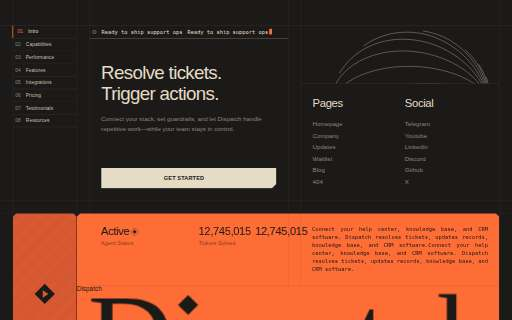
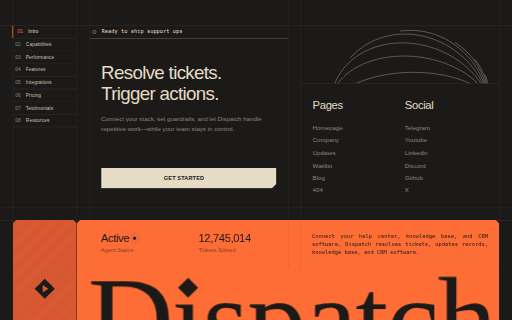
fix(styles): Tailwind utilities for isoline-bloom and ticket-stub-footer
Compiled Tailwind for 60 candidates; before/after screenshots showed a visible
fix for only these two, so the rest were left unchanged.

diff --git a/features/ticket-stub-footer/style.css b/features/ticket-stub-footer/style.css
@@ -7,3 +7,7 @@ html, body, #root {
   width: 100%;
   min-height: 100%;
 }
+
+/* tailwind:start (generated by npm run build-tailwind) */
+*,:after,:before{--tw-border-spacing-x:0;--tw-border-spacing-y:0;--tw-translate-x:0;--tw-translate-y:0;--tw-rotate:0;--tw-skew-x:0;--tw-skew-y:0;--tw-scale-x:1;--tw-scale-y:1;--tw-pan-x: ;--tw-pan-y: ;--tw-pinch-zoom: ;--tw-scroll-snap-strictness:proximity;--tw-gradient-from-position: ;--tw-gradient-via-position: ;--tw-gradient-to-position: ;--tw-ordinal: ;--tw-slashed-zero: ;--tw-numeric-figure: ;--tw-numeric-spacing: ;--tw-numeric-fraction: ;--tw-ring-inset: ;--tw-ring-offset-width:0px;--tw-ring-offset-color:#fff;--tw-ring-color:rgba(59,130,246,.5);--tw-ring-offset-shadow:0 0 #0000;--tw-ring-shadow:0 0 #0000;--tw-shadow:0 0 #0000;--tw-shadow-colored:0 0 #0000;--tw-blur: ;--tw-brightness: ;--tw-contrast: ;--tw-grayscale: ;--tw-hue-rotate: ;--tw-invert: ;--tw-saturate: ;--tw-sepia: ;--tw-drop-shadow: ;--tw-backdrop-blur: ;--tw-backdrop-brightness: ;--tw-backdrop-contrast: ;--tw-backdrop-grayscale: ;--tw-backdrop-hue-rotate: ;--tw-backdrop-invert: ;--tw-backdrop-opacity: ;--tw-backdrop-saturate: ;--tw-backdrop-sepia: ;--tw-contain-size: ;--tw-contain-layout: ;--tw-contain-paint: ;--tw-contain-style: }::backdrop{--tw-border-spacing-x:0;--tw-border-spacing-y:0;--tw-translate-x:0;--tw-translate-y:0;--tw-rotate:0;--tw-skew-x:0;--tw-skew-y:0;--tw-scale-x:1;--tw-scale-y:1;--tw-pan-x: ;--tw-pan-y: ;--tw-pinch-zoom: ;--tw-scroll-snap-strictness:proximity;--tw-gradient-from-position: ;--tw-gradient-via-position: ;--tw-gradient-to-position: ;--tw-ordinal: ;--tw-slashed-zero: ;--tw-numeric-figure: ;--tw-numeric-spacing: ;--tw-numeric-fraction: ;--tw-ring-inset: ;--tw-ring-offset-width:0px;--tw-ring-offset-color:#fff;--tw-ring-color:rgba(59,130,246,.5);--tw-ring-offset-shadow:0 0 #0000;--tw-ring-shadow:0 0 #0000;--tw-shadow:0 0 #0000;--tw-shadow-colored:0 0 #0000;--tw-blur: ;--tw-brightness: ;--tw-contrast: ;--tw-grayscale: ;--tw-hue-rotate: ;--tw-invert: ;--tw-saturate: ;--tw-sepia: ;--tw-drop-shadow: ;--tw-backdrop-blur: ;--tw-backdrop-brightness: ;--tw-backdrop-contrast: ;--tw-backdrop-grayscale: ;--tw-backdrop-hue-rotate: ;--tw-backdrop-invert: ;--tw-backdrop-opacity: ;--tw-backdrop-saturate: ;--tw-backdrop-sepia: ;--tw-contain-size: ;--tw-contain-layout: ;--tw-contain-paint: ;--tw-contain-style: }/*! tailwindcss v3.4.19 | MIT License | https://tailwindcss.com*/*,:after,:before{box-sizing:border-box;border:0 solid #e5e7eb}:after,:before{--tw-content:""}:host,html{line-height:1.5;-webkit-text-size-adjust:100%;-moz-tab-size:4;-o-tab-size:4;tab-size:4;font-family:ui-sans-serif,system-ui,sans-serif,Apple Color Emoji,Segoe UI Emoji,Segoe UI Symbol,Noto Color Emoji;font-feature-settings:normal;font-variation-settings:normal;-webkit-tap-highlight-color:transparent}body{margin:0;line-height:inherit}hr{height:0;color:inherit;border-top-width:1px}abbr:where([title]){-webkit-text-decoration:underline dotted;text-decoration:underline dotted}h1,h2,h3,h4,h5,h6{font-size:inherit;font-weight:inherit}a{color:inherit;text-decoration:inherit}b,strong{font-weight:bolder}code,kbd,pre,samp{font-family:ui-monospace,SFMono-Regular,Menlo,Monaco,Consolas,Liberation Mono,Courier New,monospace;font-feature-settings:normal;font-variation-settings:normal;font-size:1em}small{font-size:80%}sub,sup{font-size:75%;line-height:0;position:relative;vertical-align:baseline}sub{bottom:-.25em}sup{top:-.5em}table{text-indent:0;border-color:inherit;border-collapse:collapse}button,input,optgroup,select,textarea{font-family:inherit;font-feature-settings:inherit;font-variation-settings:inherit;font-size:100%;font-weight:inherit;line-height:inherit;letter-spacing:inherit;color:inherit;margin:0;padding:0}button,select{text-transform:none}button,input:where([type=button]),input:where([type=reset]),input:where([type=submit]){-webkit-appearance:button;background-color:transparent;background-image:none}:-moz-focusring{outline:auto}:-moz-ui-invalid{box-shadow:none}progress{vertical-align:baseline}::-webkit-inner-spin-button,::-webkit-outer-spin-button{height:auto}[type=search]{-webkit-appearance:textfield;outline-offset:-2px}::-webkit-search-decoration{-webkit-appearance:none}::-webkit-file-upload-button{-webkit-appearance:button;font:inherit}summary{display:list-item}blockquote,dd,dl,figure,h1,h2,h3,h4,h5,h6,hr,p,pre{margin:0}fieldset{margin:0}fieldset,legend{padding:0}menu,ol,ul{list-style:none;margin:0;padding:0}dialog{padding:0}textarea{resize:vertical}input::-moz-placeholder,textarea::-moz-placeholder{opacity:1;color:#9ca3af}input::placeholder,textarea::placeholder{opacity:1;color:#9ca3af}[role=button],button{cursor:pointer}:disabled{cursor:default}audio,canvas,embed,iframe,img,object,svg,video{display:block;vertical-align:middle}img,video{max-width:100%;height:auto}[hidden]:where(:not([hidden=until-found])){display:none}.sr-only{position:absolute;width:1px;height:1px;padding:0;margin:-1px;overflow:hidden;clip:rect(0,0,0,0);white-space:nowrap;border-width:0}.\!visible{visibility:visible!important}.visible{visibility:visible}.block{display:block}.flex{display:flex}.contents{display:contents}.hidden{display:none}.w-full{width:100%}.transform{transform:translate(var(--tw-translate-x),var(--tw-translate-y)) rotate(var(--tw-rotate)) skewX(var(--tw-skew-x)) skewY(var(--tw-skew-y)) scaleX(var(--tw-scale-x)) scaleY(var(--tw-scale-y))}.bg-\[\#1b1a19\]{--tw-bg-opacity:1;background-color:rgb(27 26 25/var(--tw-bg-opacity,1))}.bg-\[\#eee8da\]{--tw-bg-opacity:1;background-color:rgb(238 232 218/var(--tw-bg-opacity,1))}.lowercase{text-transform:lowercase}.filter{filter:var(--tw-blur) var(--tw-brightness) var(--tw-contrast) var(--tw-grayscale) var(--tw-hue-rotate) var(--tw-invert) var(--tw-saturate) var(--tw-sepia) var(--tw-drop-shadow)}
+/* tailwind:end */

diff --git a/features/isoline-bloom/style.css b/features/isoline-bloom/style.css
@@ -7,3 +7,7 @@ html, body, #root {
   width: 100%;
   min-height: 100%;
 }
+
+/* tailwind:start (generated by npm run build-tailwind) */
+*,:after,:before{--tw-border-spacing-x:0;--tw-border-spacing-y:0;--tw-translate-x:0;--tw-translate-y:0;--tw-rotate:0;--tw-skew-x:0;--tw-skew-y:0;--tw-scale-x:1;--tw-scale-y:1;--tw-pan-x: ;--tw-pan-y: ;--tw-pinch-zoom: ;--tw-scroll-snap-strictness:proximity;--tw-gradient-from-position: ;--tw-gradient-via-position: ;--tw-gradient-to-position: ;--tw-ordinal: ;--tw-slashed-zero: ;--tw-numeric-figure: ;--tw-numeric-spacing: ;--tw-numeric-fraction: ;--tw-ring-inset: ;--tw-ring-offset-width:0px;--tw-ring-offset-color:#fff;--tw-ring-color:rgba(59,130,246,.5);--tw-ring-offset-shadow:0 0 #0000;--tw-ring-shadow:0 0 #0000;--tw-shadow:0 0 #0000;--tw-shadow-colored:0 0 #0000;--tw-blur: ;--tw-brightness: ;--tw-contrast: ;--tw-grayscale: ;--tw-hue-rotate: ;--tw-invert: ;--tw-saturate: ;--tw-sepia: ;--tw-drop-shadow: ;--tw-backdrop-blur: ;--tw-backdrop-brightness: ;--tw-backdrop-contrast: ;--tw-backdrop-grayscale: ;--tw-backdrop-hue-rotate: ;--tw-backdrop-invert: ;--tw-backdrop-opacity: ;--tw-backdrop-saturate: ;--tw-backdrop-sepia: ;--tw-contain-size: ;--tw-contain-layout: ;--tw-contain-paint: ;--tw-contain-style: }::backdrop{--tw-border-spacing-x:0;--tw-border-spacing-y:0;--tw-translate-x:0;--tw-translate-y:0;--tw-rotate:0;--tw-skew-x:0;--tw-skew-y:0;--tw-scale-x:1;--tw-scale-y:1;--tw-pan-x: ;--tw-pan-y: ;--tw-pinch-zoom: ;--tw-scroll-snap-strictness:proximity;--tw-gradient-from-position: ;--tw-gradient-via-position: ;--tw-gradient-to-position: ;--tw-ordinal: ;--tw-slashed-zero: ;--tw-numeric-figure: ;--tw-numeric-spacing: ;--tw-numeric-fraction: ;--tw-ring-inset: ;--tw-ring-offset-width:0px;--tw-ring-offset-color:#fff;--tw-ring-color:rgba(59,130,246,.5);--tw-ring-offset-shadow:0 0 #0000;--tw-ring-shadow:0 0 #0000;--tw-shadow:0 0 #0000;--tw-shadow-colored:0 0 #0000;--tw-blur: ;--tw-brightness: ;--tw-contrast: ;--tw-grayscale: ;--tw-hue-rotate: ;--tw-invert: ;--tw-saturate: ;--tw-sepia: ;--tw-drop-shadow: ;--tw-backdrop-blur: ;--tw-backdrop-brightness: ;--tw-backdrop-contrast: ;--tw-backdrop-grayscale: ;--tw-backdrop-hue-rotate: ;--tw-backdrop-invert: ;--tw-backdrop-opacity: ;--tw-backdrop-saturate: ;--tw-backdrop-sepia: ;--tw-contain-size: ;--tw-contain-layout: ;--tw-contain-paint: ;--tw-contain-style: }/*! tailwindcss v3.4.19 | MIT License | https://tailwindcss.com*/*,:after,:before{box-sizing:border-box;border:0 solid #e5e7eb}:after,:before{--tw-content:""}:host,html{line-height:1.5;-webkit-text-size-adjust:100%;-moz-tab-size:4;-o-tab-size:4;tab-size:4;font-family:ui-sans-serif,system-ui,sans-serif,Apple Color Emoji,Segoe UI Emoji,Segoe UI Symbol,Noto Color Emoji;font-feature-settings:normal;font-variation-settings:normal;-webkit-tap-highlight-color:transparent}body{margin:0;line-height:inherit}hr{height:0;color:inherit;border-top-width:1px}abbr:where([title]){-webkit-text-decoration:underline dotted;text-decoration:underline dotted}h1,h2,h3,h4,h5,h6{font-size:inherit;font-weight:inherit}a{color:inherit;text-decoration:inherit}b,strong{font-weight:bolder}code,kbd,pre,samp{font-family:ui-monospace,SFMono-Regular,Menlo,Monaco,Consolas,Liberation Mono,Courier New,monospace;font-feature-settings:normal;font-variation-settings:normal;font-size:1em}small{font-size:80%}sub,sup{font-size:75%;line-height:0;position:relative;vertical-align:baseline}sub{bottom:-.25em}sup{top:-.5em}table{text-indent:0;border-color:inherit;border-collapse:collapse}button,input,optgroup,select,textarea{font-family:inherit;font-feature-settings:inherit;font-variation-settings:inherit;font-size:100%;font-weight:inherit;line-height:inherit;letter-spacing:inherit;color:inherit;margin:0;padding:0}button,select{text-transform:none}button,input:where([type=button]),input:where([type=reset]),input:where([type=submit]){-webkit-appearance:button;background-color:transparent;background-image:none}:-moz-focusring{outline:auto}:-moz-ui-invalid{box-shadow:none}progress{vertical-align:baseline}::-webkit-inner-spin-button,::-webkit-outer-spin-button{height:auto}[type=search]{-webkit-appearance:textfield;outline-offset:-2px}::-webkit-search-decoration{-webkit-appearance:none}::-webkit-file-upload-button{-webkit-appearance:button;font:inherit}summary{display:list-item}blockquote,dd,dl,figure,h1,h2,h3,h4,h5,h6,hr,p,pre{margin:0}fieldset{margin:0}fieldset,legend{padding:0}menu,ol,ul{list-style:none;margin:0;padding:0}dialog{padding:0}textarea{resize:vertical}input::-moz-placeholder,textarea::-moz-placeholder{opacity:1;color:#9ca3af}input::placeholder,textarea::placeholder{opacity:1;color:#9ca3af}[role=button],button{cursor:pointer}:disabled{cursor:default}audio,canvas,embed,iframe,img,object,svg,video{display:block;vertical-align:middle}img,video{max-width:100%;height:auto}[hidden]:where(:not([hidden=until-found])){display:none}.visible{visibility:visible}.invisible{visibility:hidden}.absolute{position:absolute}.relative{position:relative}.inset-0{inset:0}.block{display:block}.flex{display:flex}.hidden{display:none}.h-full{height:100%}.w-full{width:100%}.grow{flex-grow:1}.cursor-crosshair{cursor:crosshair}.touch-none{touch-action:none}.touch-pan-y{--tw-pan-y:pan-y;touch-action:var(--tw-pan-x) var(--tw-pan-y) var(--tw-pinch-zoom)}.resize{resize:both}.overflow-hidden{overflow:hidden}.ring{--tw-ring-offset-shadow:var(--tw-ring-inset) 0 0 0 var(--tw-ring-offset-width) var(--tw-ring-offset-color);--tw-ring-shadow:var(--tw-ring-inset) 0 0 0 calc(3px + var(--tw-ring-offset-width)) var(--tw-ring-color);box-shadow:var(--tw-ring-offset-shadow),var(--tw-ring-shadow),var(--tw-shadow,0 0 #0000)}
+/* tailwind:end */

diff --git a/docs/BACKLOG.md b/docs/BACKLOG.md
@@ -20,7 +20,7 @@ Goal: every component looks right under every page theme.
 
 - [x] **2.1 Triage `reports/themes.json` (M)** — done 2026-10-24: 8 reviewed as false positives (themeReviewed), 1 fixed (stencil-labs-template). — run `npm run audit-themes`, review each flag, then fix, add `themeReviewed`, `nativeWhen` or `ownPalette`.
 - [ ] **2.2 Token migration, batch by category (L)** — `npm run lint-tokens` worst offenders first, by hand, checked in dark and light (the codemod was rejected). Start with Heroes and Headers & Nav.
-- [ ] **2.3 Tailwind coverage for the remaining 21st.dev components (M)** — find components whose `component.tsx` uses utility classes but whose `style.css` has none, run `build-tailwind`, regenerate thumbs.
+- [x] **2.3 Tailwind coverage for the remaining 21st.dev components (M)** — done 2026-10-24: tried 60, before/after screenshots showed only isoline-bloom and ticket-stub-footer changed visibly for the better; the other 58 were left as they were. — find components whose `component.tsx` uses utility classes but whose `style.css` has none, run `build-tailwind`, regenerate thumbs.
 - [ ] **2.4 Visual regression baseline (M)** — store thumbs/screenshots per theme and diff in CI so restyles stop being eyeballed.
 - [ ] **2.5 Responsive pass (M)** — check all 209 at 375 / 768 / 1280 widths in headless Chromium, report overflow; extend `check-features`.
 
